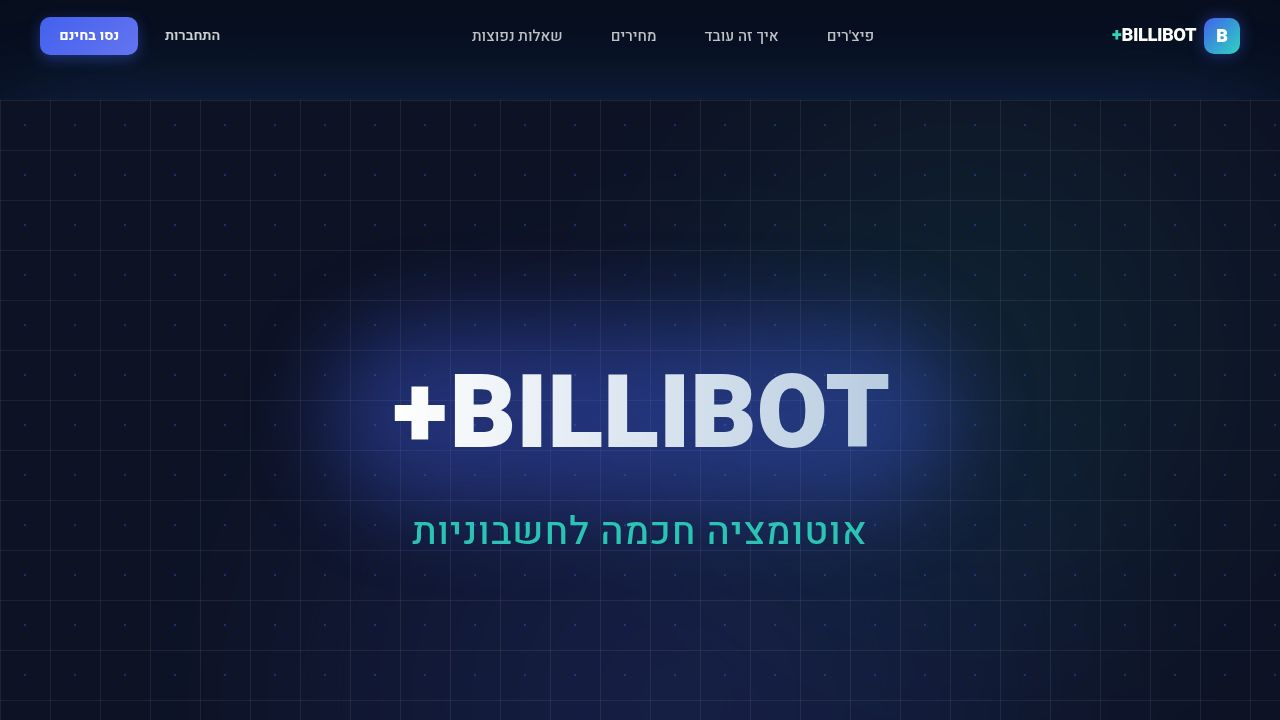
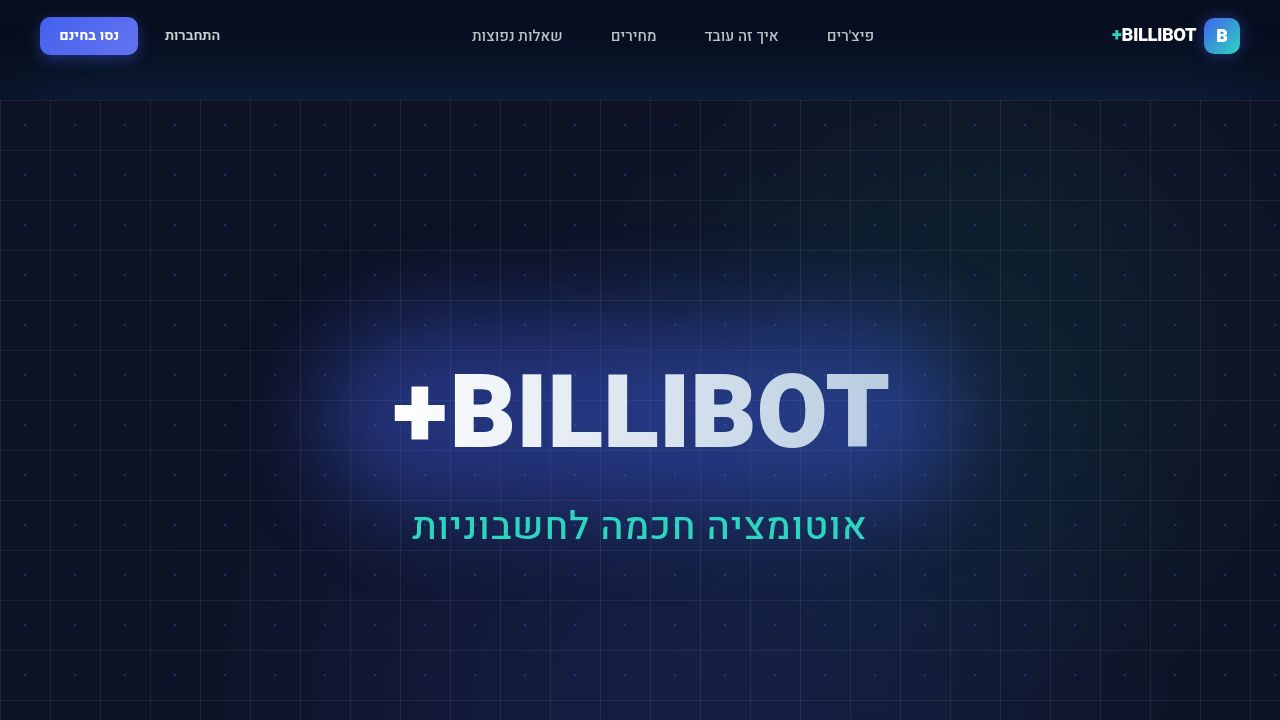
Remove sensitive verify token from public status endpoint
Modify the /status endpoint in whatsapp.ts to return a boolean verifyTokenSet instead of the actual verifyToken value, enhancing security by preventing exposure of sensitive credentials.

Replit-Commit-Author: Agent
Replit-Commit-Session-Id: eb26f3c8-44c9-40b9-b938-2e2e8515cf03
Replit-Commit-Checkpoint-Type: full_checkpoint
Replit-Commit-Event-Id: 8f87b986-55c4-4276-9ce4-4c9c5d5793fd
Replit-Commit-Screenshot-Url: https://storage.googleapis.com/screenshot-production-us-central1/dc086eb1-7bde-429c-a879-eb80b41757d1/eb26f3c8-44c9-40b9-b938-2e2e8515cf03/swEpkS6
Replit-Helium-Checkpoint-Created: true

Changed region(s): [[0.3125, 0.7028, 0.6875, 0.7639]]

diff --git a/artifacts/api-server/src/routes/whatsapp.ts b/artifacts/api-server/src/routes/whatsapp.ts
@@ -276,7 +276,7 @@ router.get("/status", (_req, res) => {
   res.json({
     configured: !!(phoneNumberId && accessToken),
     phoneNumberId: phoneNumberId || null,
-    verifyToken: verifyToken || null,
+    verifyTokenSet: !!verifyToken,
     provider: "meta",
   });
 });